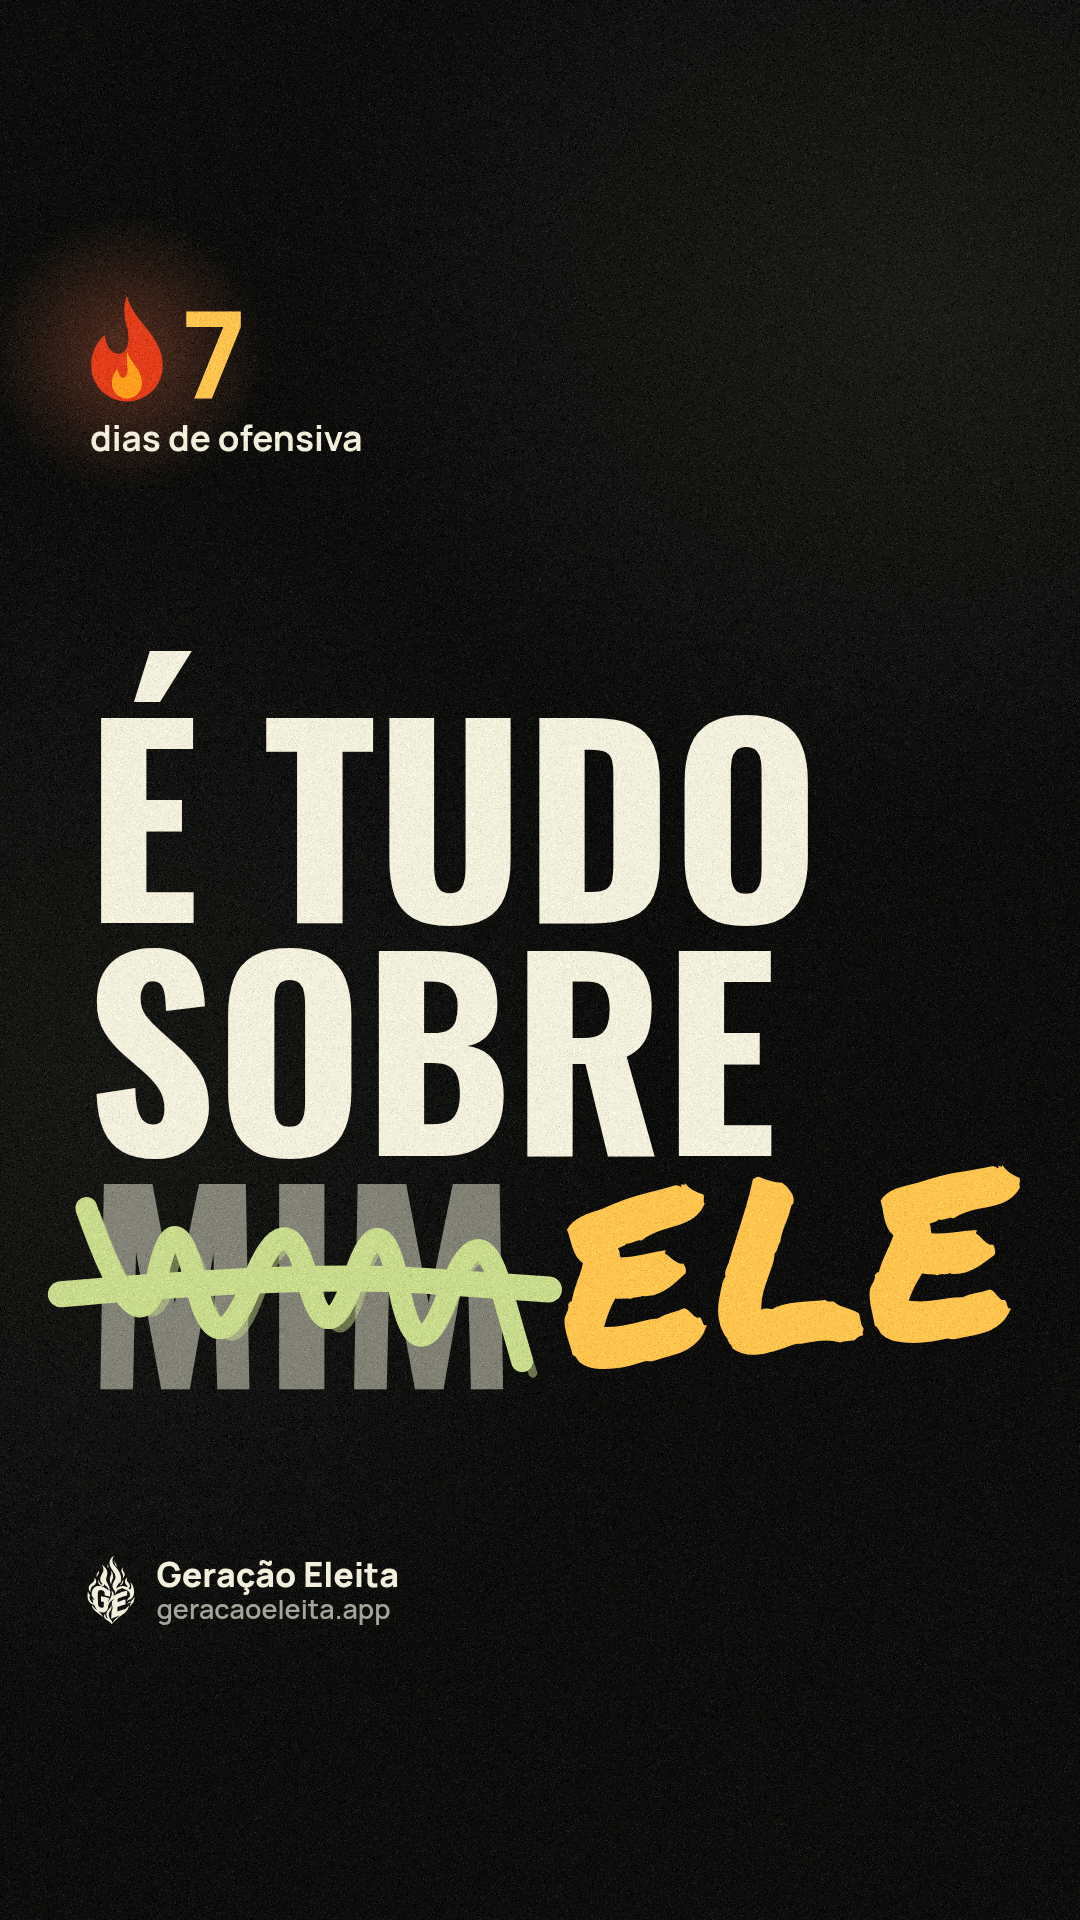
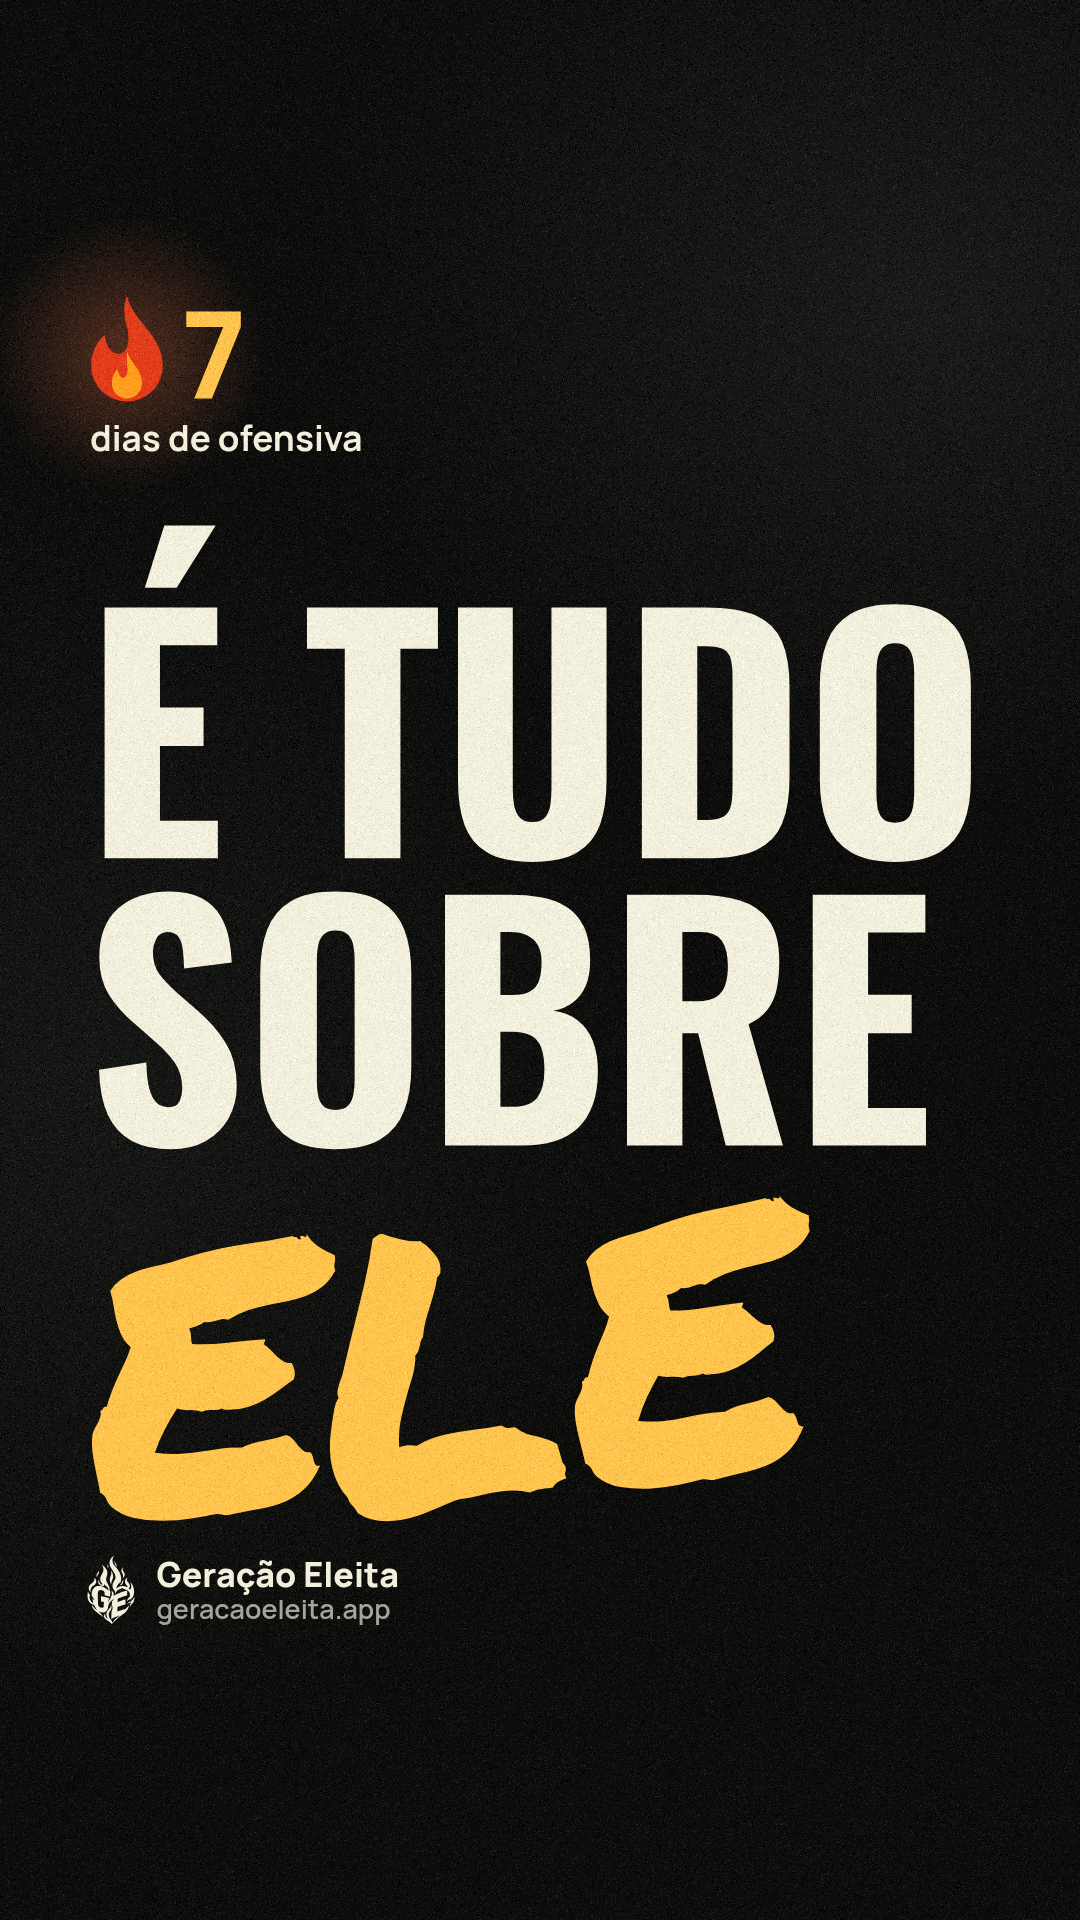
É tudo sobre Ele sem o MIM riscado: só a frase, com ELE à mão em amarelo
Claude-Session: https://claude.ai/code/session_0181e5xzHUW8QLQRgjbfooCS

Changed region(s): [[0.0306, 0.25, 0.9472, 0.8125]]

diff --git a/src/app/01e-story-artes.js b/src/app/01e-story-artes.js
@@ -5212,53 +5212,30 @@
     }
   }
 
-  // É tudo sobre Ele: a correção à mão. No preto da landing, É TUDO / SOBRE / MIM em Oswald
-  // creme enorme, encostado à esquerda; o MIM, apagado, é riscado com força em sálvia e, ao
-  // lado, ELE vem escrito à mão em amarelo, a única cor quente, como quem corrige o
-  // texto. A frase que fica é É TUDO SOBRE ELE. Fechamento: a rasura.
-  function rasura(ctx, x0, y0, x1, y1, r) {
-    const pts = [];
-    const n = 9;
-    for (let i = 0; i <= n; i++) {
-      const t = i / n;
-      pts.push([x0 + (x1 - x0) * t + (r() - 0.5) * 20, (i % 2 ? y1 : y0) + (r() - 0.5) * 24]);
-    }
-    tracoAMao(ctx, pts, { r, largura: 22, tremor: 6, cor: LP.salvia, segunda: true });
-    tracoAMao(ctx, [[x0 - 20, (y0 + y1) / 2 + 10], [(x0 + x1) / 2, (y0 + y1) / 2 - 14], [x1 + 24, (y0 + y1) / 2 + 4]], { r, largura: 26, tremor: 6, cor: LP.salvia, segunda: false });
-  }
+  // É tudo sobre Ele: no preto da landing, É TUDO / SOBRE em Oswald creme enorme, encostado
+  // à esquerda, e ELE escrito à mão em amarelo, a única cor quente, maior que o resto: a
+  // frase termina nEle. Sem outra palavra (o dono tirou o MIM riscado). Fechamento: o ELE à mão.
   function arteTudo(ctx) {
     const r = sorteio(1430);
     fundoLanding(ctx);
     const x = 86;
     const os = (t) => oswaldLP(t, 700);
-    const pm = (t) => '400 ' + t + 'px "Permanent Marker", cursive';
-    // MIM riscado e ELE ao lado têm de caber na mesma linha
-    const wLinha3 = (larguraDe(ctx, 'MIM', os(100)) + 0.95 * larguraDe(ctx, 'ELE', pm(100))) / 100;
-    const tam = Math.min(caber(ctx, 'É TUDO', os, 900, 330), caber(ctx, 'SOBRE', os, 900, 330), (L - x - 70 - 40) / wLinha3);
+    const tam = Math.min(caber(ctx, 'É TUDO', os, 900, 330), caber(ctx, 'SOBRE', os, 900, 330));
     ctx.font = os(tam);
     const cap = ctx.measureText('É TUDO').actualBoundingBoxAscent;
     const capS = ctx.measureText('SOBRE').actualBoundingBoxAscent;
     const vao = tam * 0.1;
-    const y1 = (Z0 + Z1) / 2 - (cap + 2 * (vao + capS)) / 2 + cap;
+    const tE = tam * 1.25;
+    const capE = capS * 1.25;
+    const y1 = (Z0 + Z1) / 2 - (cap + vao + capS + vao * 1.6 + capE) / 2 + cap;
     const y2 = y1 + vao + capS;
-    const y3 = y2 + vao + capS;
+    const y3 = y2 + vao * 1.6 + capE;
     S.escrever(ctx, 'É TUDO', x, y1, os(tam), LP.creme, { alinhar: 'left' });
     S.escrever(ctx, 'SOBRE', x, y2, os(tam), LP.creme, { alinhar: 'left' });
-    // o MIM apagado e riscado
-    const wM = larguraDe(ctx, 'MIM', os(tam));
-    ctx.save();
-    ctx.globalAlpha = 0.5;
-    S.escrever(ctx, 'MIM', x, y3, os(tam), LP.creme, { alinhar: 'left' });
-    ctx.restore();
-    rasura(ctx, x - 6, y3 - capS * 0.9, x + wM + 6, y3 - capS * 0.1, r);
-    // ELE à mão, ao lado, um pouco acima, e a setinha de inserção embaixo
-    const tE = tam * 0.95;
     ctx.fillStyle = LP.amarelo;
-    const xE = x + wM + 50;
-    const yE = y3 - capS * 0.12;
     ctx.save();
-    ctx.translate(xE, yE);
-    ctx.rotate(-0.07);
+    ctx.translate(x + 4, y3);
+    ctx.rotate(-0.05);
     aMao(ctx, 'ELE', 0, 0, tE, r);
     ctx.restore();
   }

diff --git a/design/compartilhar/LEIA.md b/design/compartilhar/LEIA.md
@@ -253,10 +253,9 @@ com as 45). Nenhuma fecha com a palavra amarela sublinhada; sem figura humana, p
   Fecha na grade quebrada. Diferente da bolinha do cartão de respostas (diferenca) e da ovelha
   branca (diferente): aqui ninguém se destaca no meio dos outros, é a forma que não segura. As
   rachaduras em fio da primeira versão pareciam fios de cabelo e saíram.
-- **rasura** (É tudo sobre Ele): a correção à mão. No preto da landing, É TUDO / SOBRE em Oswald
-  creme enorme, encostado à esquerda, e na linha de baixo MIM apagado e riscado com força em
-  sálvia, com ELE escrito à mão em amarelo ao lado. A frase que se lê é É TUDO SOBRE ELE; o
-  MIM riscado é o gancho (sair do centro). Fecha na rasura.
+- **rasura** (É tudo sobre Ele): no preto da landing, É TUDO / SOBRE em Oswald creme enorme,
+  encostado à esquerda, e ELE escrito à mão em amarelo, maior que o resto. A primeira versão
+  tinha MIM riscado antes do ELE; o dono pediu para tirar (nenhuma palavra fora da frase).
 `MODELOS=ondas,envelope,molde,rasura DIAS=7 node design/compartilhar/gerar.mjs <pasta> modelos`
 gera os quatro. Para a folha de contato, os 45 saem com `MODELOS=<todos> DIAS=7` e são montados
 em dez colunas. Os testes trocaram "Geração inconformada" por "Até que Ele venha" como frase
